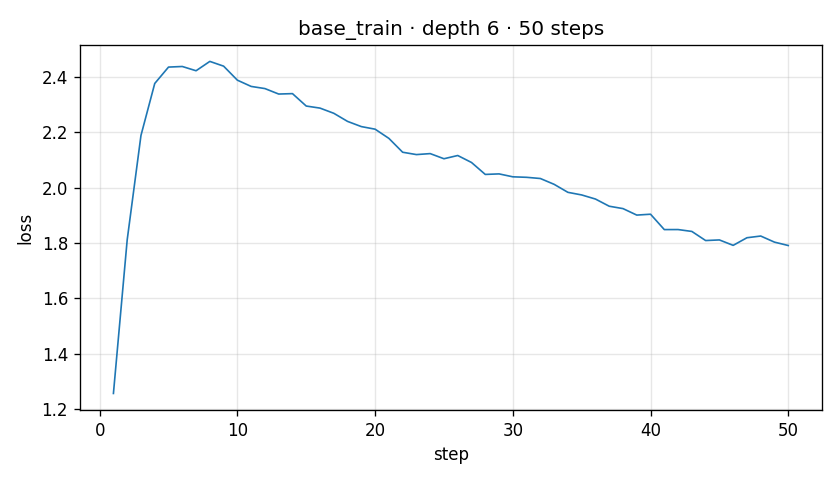
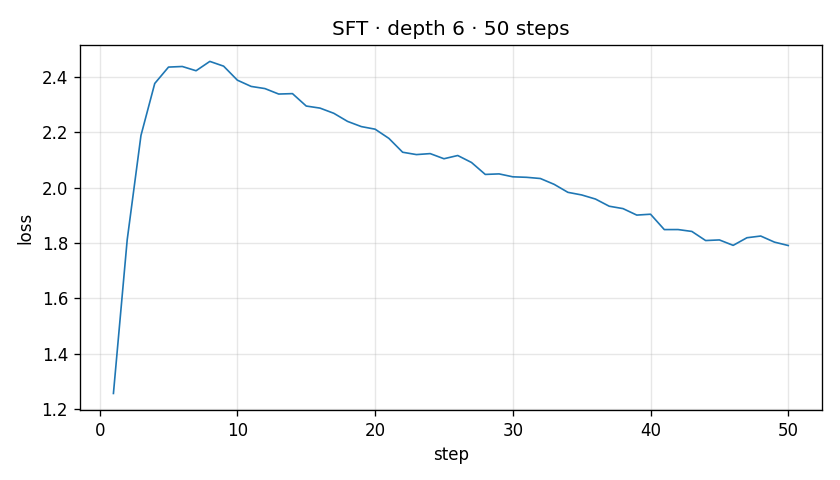
Fix SFT plot title

Changed region(s): [[0.3405, 0.0312, 0.7119, 0.0938]]

diff --git a/plot_sft_loss.py b/plot_sft_loss.py
@@ -12,7 +12,7 @@ for line in open("sft.log"):
 plt.figure(figsize=(7, 4))
 plt.plot(steps, losses, lw=1)
 plt.xlabel("step"); plt.ylabel("loss")
-plt.title(f"base_train · depth 6 · {len(steps)} steps")
+plt.title(f"SFT · depth 6 · {len(steps)} steps")
 plt.grid(alpha=0.3); plt.tight_layout()
 plt.savefig("sft_loss.png", dpi=120)
 print(f"wrote sft_loss.png ({len(steps)} points)")